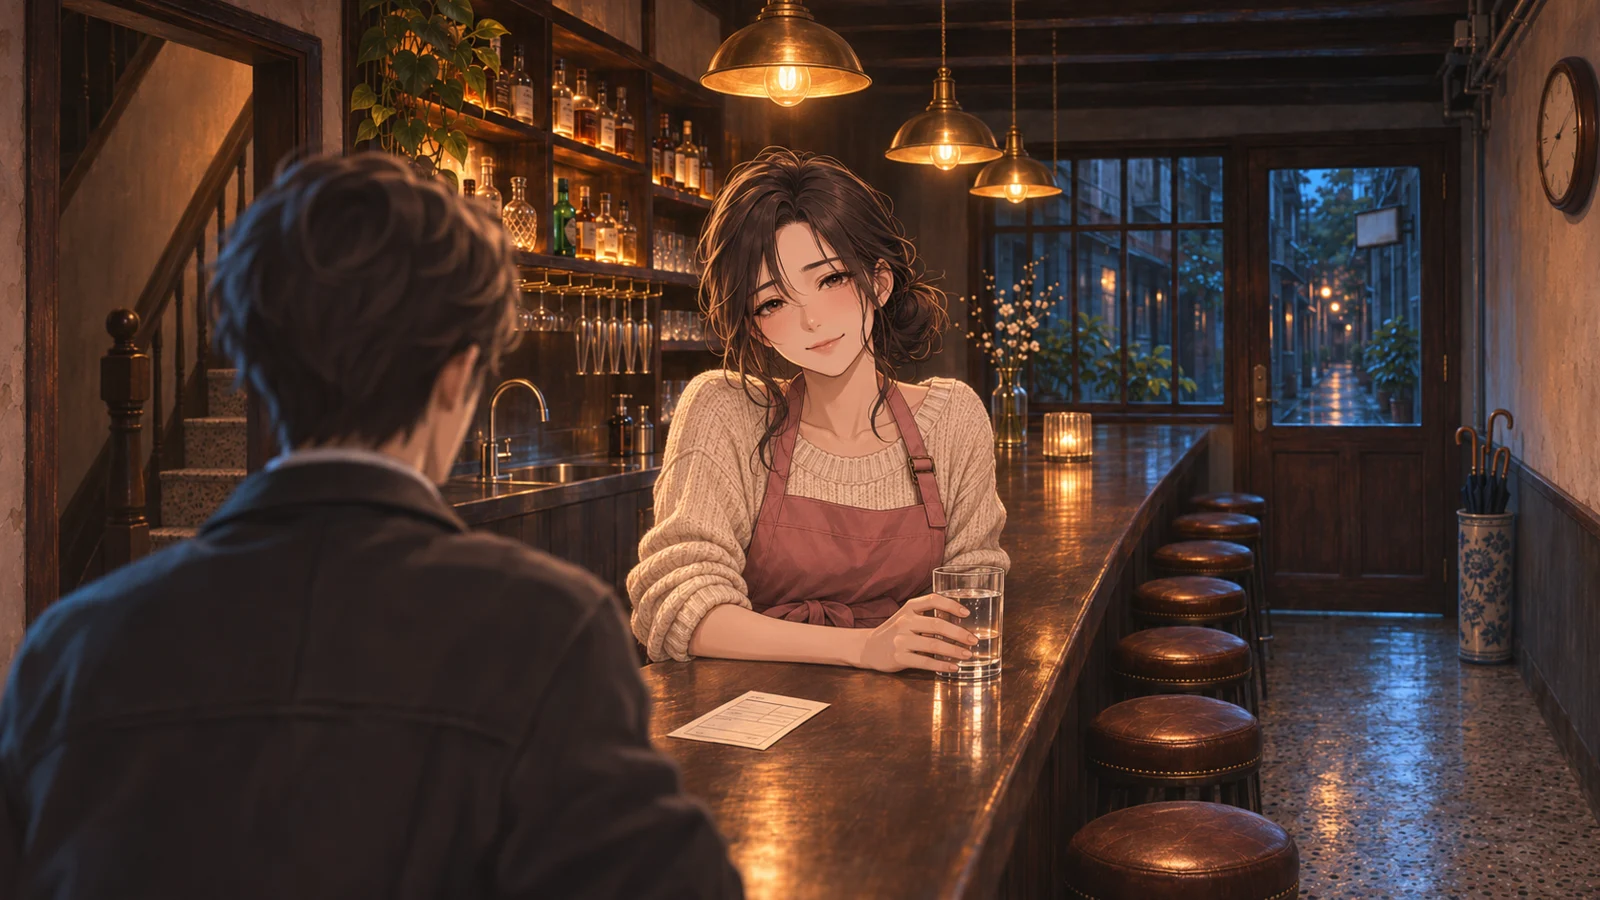
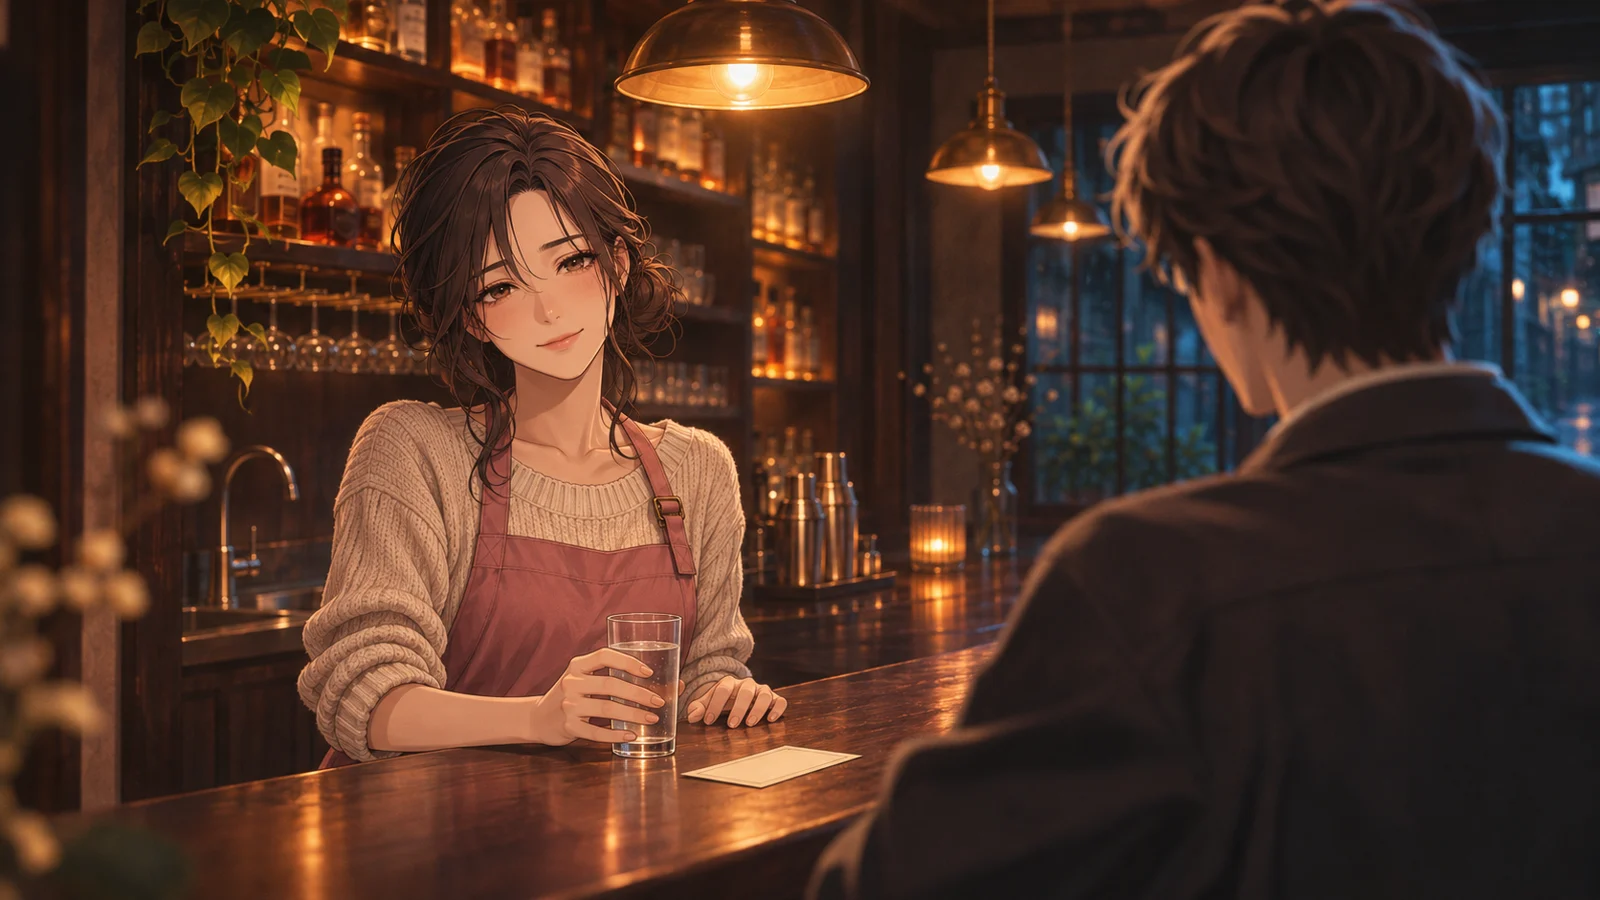
CG：並肩喝水、牽手、回診單三張重畫（空間規則）；build 換圖錨點

diff --git a/art/v5/shots.py b/art/v5/shots.py
@@ -52,12 +52,12 @@ S = {
  'rain_dawn': (['anya', 'shen_office'], 'bar', ['dawn', 'spoon'], 'Close on the counter. ANYA slowly pours pale sparkling wine down the back of the gold bar spoon into the flute, which already holds ruby syrup at the bottom; the pale gold layer is forming on top. SHEN (damp hair, collar open, no tie) sits opposite with both hands on the counter edge, watching the glass. Bubbles catch the lamp light. ' + WARM),
  'rain_umbrella': (['anya', 'shen_office'], 'bar', [], 'Just inside the glass-paned door of the bar. ANYA presses a folded dark umbrella into the hand of SHEN (collar open, no tie); their fingertips touch on the handle and they look at each other. Warm light from the bar on them; through the glass, rain in cold blue street light. Two-shot from the waist up.'),
  'weeks_regular': (['anya', 'shen_office', 'azhong'], 'bar', [], 'A late spring night. SHEN sits at the counter in front of ANYA, loosening his tie with one hand. AH-ZHONG sits on the stool by the door holding a beer bottle, grinning sideways at him. Behind the counter ANYA looks down as she pours a glass of water, hiding a small smile. ' + WARM),
- 'weeks_water': (['anya', 'shen_office'], 'bar', [], 'After closing in early summer: the back-bar shelf lights are off, the pendant lamps still on. ANYA and SHEN (no tie, collar open) sit side by side on two stools on the customer side, knees touching; her foot rests on the rung of his stool. Two glasses of plain water on the counter in the lamp light. Quiet, close. ' + WARM),
+ 'weeks_water': (['anya', 'shen_office'], 'bar', [], 'After closing in early summer: the back-bar shelf lights are off, the pendant lamps still on. ANYA and SHEN (no tie, collar open) sit side by side on two stools on the customer side, knees touching; her foot rests on the rung of his stool. Two glasses of plain water on the counter in the lamp light. Quiet, close.  SPATIAL RULE: both of them are on the CUSTOMER side of the counter, each sitting fully on a high stool, the counter in front of them; nobody is behind the counter. Camera on the customer side a few steps away, seeing them from the side so both whole bodies, the two stools and the counter edge are visible; no body part passes through the counter. ' + WARM),
  'clinic_day': (['anya_clinic', 'mother'], None, [], 'A hospital consultation room on a July afternoon. Daylight through window blinds falls in stripes. ANYA sits in front of the desk, calm, both hands in her lap; her MOTHER sits beside her, leaning forward with her knees pressed together. A doctor in a white coat, seen from behind and out of focus, points at a monitor whose screen is a blur. Cool neutral colours; the only warmth is the light on ANYA\'s hands.'),
  'lesson_hands': (['anya_summer', 'shen_shirt', 'xiaokui'], 'bar', ['dawn', 'spoon'], 'A Saturday afternoon before opening, daylight from the alley window. Behind the counter SHEN and ANYA stand side by side facing the counter. SHEN holds a green sparkling-wine bottle in his RIGHT hand, gripping it around the middle of the bottle body, tilted with its open neck pointing DOWN toward the flute, and a thin stream of wine runs from the bottle mouth onto the bowl of the gold bar spoon, which he holds in his LEFT hand just above the liquid inside the flute. ANYA stands close at his right side: her right hand rests on top of his right hand on the bottle, guiding the tilt, and her left hand lightly holds his left wrist. Exactly four hands in total, each with five fingers, each clearly attached to its owner; the bottle is held in the air above the counter, not lying on it. In the flute the pale gold layer is settling over the ruby bottom. XIAO-KUI sits opposite with her chin on her hand, amused. The window light falls on the three pairs of hands.'),
  'confess_words': (['anya_summer', 'shen_shirt'], 'bar', [], 'After closing, only two pendant lamps on. SHEN stands at the sink behind the counter holding a half-dried glass with the cloth stuffed inside it, flustered, ears red, mid-sentence. ANYA stands beside him, also behind the counter, bent forward with laughter with one elbow on the counter top, the back of her other hand against her mouth.  SPATIAL RULE: ANYA stands on the floor BEHIND the counter (the bartender side). The solid counter is between her and the customer side; her body is visible only from the waist up, rising above the counter top, and her hips and legs are completely hidden behind the counter front. No part of her body passes through or sinks into the counter top; she may rest her forearms or elbows ON the counter top. ' + WARM),
  'confess_kiss': (['anya_summer', 'shen_shirt'], 'bar', [], 'After closing, beside the counter. ANYA rises on tiptoe and kisses SHEN; the fingers of one of her hands are laced through his, his other hand rests on the side of her waist. Both in profile, lit by one warm pendant lamp; the door is shut, deep blue night beyond the glass. Tender, quiet.'),
- 'together_hands': (['anya', 'shen_shirt', 'azhong', 'xiaokui'], 'bar', [], 'An autumn weekend night, the bar full. Camera behind the counter at waist height: in the foreground, below the counter top and hidden from the customers, ANYA\'s hand and SHEN\'s hand are clasped. They stand shoulder to shoulder, glancing sideways at each other, trying not to smile. Beyond the counter, out of focus, XIAO-KUI leans forward grinning and AH-ZHONG raises his beer bottle. ' + WARM),
+ 'together_hands': (['anya', 'shen_shirt', 'azhong', 'xiaokui'], 'bar', [], 'An autumn weekend night, the bar full. Camera behind the counter at waist height: in the foreground, below the counter top and hidden from the customers, ANYA\'s hand and SHEN\'s hand are clasped. They stand shoulder to shoulder, glancing sideways at each other, trying not to smile. Beyond the counter, out of focus, XIAO-KUI leans forward grinning and AH-ZHONG raises his beer bottle.  SPATIAL RULE: the camera is on the bartender side looking OUT toward the customers, so the back-bar bottle shelves and the staircase are behind the camera and NOT visible; behind the seated customers we see only the plain plaster wall with the wall clock. ANYA and SHEN stand with their backs mostly to the camera, on the bartender side; customers sit on stools on the far side of the counter. ' + WARM),
  'quit_proposal': (['anya', 'shen_shirt'], 'bar', [], 'After closing in spring, one pendant lamp. SHEN leans back against the sink holding a glass cloth, serious, looking at her. ANYA stands at the glass rack with a glass in one hand, her other hand stopped in mid-air, not looking at him. The lamp lights the rim of her glass. Space between them; the warmth has gone tense.'),
  'quit_door': (['anya', 'shen_shirt'], 'bar', [], 'The same night. SHEN stands on the customer side near the door, half turned to leave, jaw tight, one shirt cuff buttoned and the other hanging loose. ANYA stands behind the counter at the glass rack holding a glass, eyes down. The whole counter lies between them under one lamp. Wide shot, long shadows.'),
  'quit_apron': (['anya', 'shen_shirt'], 'bar', [], 'The next afternoon before opening, soft window light. SHEN stands at the sink with his sleeves rolled, washing glasses. ANYA stands just behind him holding out a charcoal-grey apron, about to drop it over his shoulder, a small apologetic smile. A paper bag and two open boxes of pan-fried dumplings steam on the counter beside them.'),
@@ -66,7 +66,7 @@ S = {
  'dusk_recipe': (['anya_summer', 'shen_apron'], 'bar', ['sunset', 'spoon'], 'After closing in late summer. Behind the counter ANYA steadies the gold bar spoon and floats pale rose sparkling wine onto the gold layer in the flute: three layers, ruby, gold, pink. SHEN stands beside her holding a steel jigger, watching closely. An opened bottle of golden dessert wine stands by. ' + WARM),
  'dusk_midnight': (['anya_summer', 'shen_apron'], 'bar', ['sunset'], 'Two in the morning, back-bar dark, one warm pendant lamp. ANYA sits beside SHEN on the customer side, her forehead resting on his shoulder, a pen still in her hand over a small open notebook. Two three-layer flutes and two covered paper bowls of wonton soup stand on the counter. Tired, happy.'),
  'almost_return': (['anya', 'shen_jacket'], 'bar', [], 'After closing in autumn. SHEN stands on the customer side in his jacket, one hand pressed on the counter beside a small hospital appointment slip (blank, no readable text), looking at her. ANYA stands at the sink, a glass of water in her right hand, her left hand stopped half raised toward her ear. The lamp lights the slip of paper between them.'),
- 'almost_answer': (['anya', 'shen_jacket'], 'bar', [], 'The same night. Over SHEN\'s shoulder (he is in his jacket, seen from behind, slightly out of focus) we see ANYA across the counter, facing him with a steady, reassuring small smile, her hand around a glass of water. The appointment slip lies on the counter between them. The lamp lights her face; street light from the door rims his shoulder.'),
+ 'almost_answer': (['anya', 'shen_jacket'], 'bar', [], 'The same night. Over SHEN\'s shoulder (he is in his jacket, seen from behind, slightly out of focus) we see ANYA across the counter, facing him with a steady, reassuring small smile, her hand around a glass of water. The appointment slip lies on the counter between them. The lamp lights her face; street light from the door rims his shoulder. SPATIAL RULE: the camera and SHEN are on the CUSTOMER side, where the stools are; the counter runs between him and ANYA; ANYA stands on the bartender side with the amber back-bar bottle shelves directly behind her. '),
  'roof_dawn': (['anya_off', 'shen_shirt'], 'roof', ['dawn', 'spoon'], 'A day-off evening in autumn. By the inner side of the parapet SHEN layers a drink on a small folding table, pouring along the gold bar spoon; ANYA leans against him and steadies the flute with her fingers. The low western sun lights their hands and the ruby bottom of the glass. Wind in her hair.'),
  'roof_dance': (['anya_off', 'shen_shirt'], 'roof', ['dawn'], 'ANYA rests her cheek on SHEN\'s chest; he holds one of her hands and wraps his other arm around her back; they sway on the spot with no music. The sky turns from gold to pink; a half-finished flute stands on the ledge inside the parapet; wind lifts the hem of his shirt. Wide shot, most of the frame is sky.'),
  'winter_tell': (['anya_ill', 'shen_home'], 'room', [], 'A winter night, only the bedside lamp on. ANYA sits on the edge of the bed; SHEN stands in front of her; both of them still have a hand on the same glass of water between them. The lamp lights her knees and his hands; cold white light from the stair landing shows through the open door. He has just heard something he cannot take in.'),

diff --git a/src/build.py b/src/build.py
@@ -24,7 +24,7 @@ TRACK_BY_PREFIX = [('open', 'days'), ('return', 'seventh'), ('rain', 'dawn'), ('
 SPEAKER = {'念': '{}的筆記', '心': '{}（心）'}
 LINE_SFX = {('door_1', 0): '/sfx/knock.mp3'}   # 逐句音效（Larch 內建音效庫）：頭七那晚的敲門聲。內建庫只有短的雨聲、風聲，環境音交給配樂
 # 換圖時機：劇本每張卡只標一張圖，畫的是那張卡最要緊的一刻。同一場戲接續的卡，前半沿用上一張圖，演到那一刻才換（值是那一句的開頭）
-SHOT_AT = {'open_2': '旁白：她又碰了碰他的手肘', 'rain_2': '旁白：她先倒洛神花糖漿', 'rain_3': '旁白：她把傘塞進他手裡', 'confess_2': '旁白：他彎下身',
+SHOT_AT = {'open_2': '旁白：她用肩膀撞了他一下', 'rain_2': '旁白：她先倒洛神花糖漿', 'rain_3': '旁白：她把傘塞進他手裡', 'confess_2': '旁白：他彎下身',
            'quit_2': '旁白：他把捲起的袖子拉下來', 'roof_2': '旁白：她把他的手按在自己腰上', 'winter_2': '沈淮：我現在坐不下去', 'sunset_3': '旁白：他把杯子放下，拉過飯碗'}
 # 同一張卡裡再換一次圖（沿用別張已有的圖）
 EXTRA_SHOTS = {('farewell_3', '旁白：後門關上'): 'front_night', ('evening_2', '旁白：他沿樓梯下樓'): 'evening_bar'}
